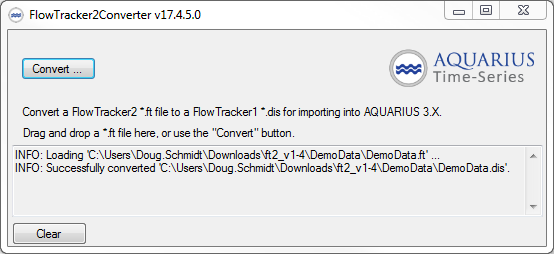
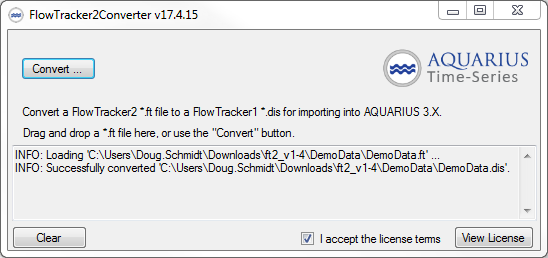
Issue-9 Updated the converter tool readme and screenshot to include license terms

diff --git a/src/FlowTracker2Converter/Readme.md b/src/FlowTracker2Converter/Readme.md
@@ -10,6 +10,7 @@ Simply drag and drop your files onto the GUI app, and your file will be converte
 
 ## Requirements
 
+- You will need to agree with the [license terms of this repository](./LICENSE.txt) and with the license terms for software components provided by [SonTek/YSI](../External/SonTek.StandaloneDataParser.License.md).
 - No installer needed. Just run the EXE from wherever.
 - The converter requires the .NET 4.7 runtime to be installed
     - .NET 4.7 is pre-installed on Windows 10 and Windows 2012 Server, and on most Windows 7 systems.

diff --git a/README.md b/README.md
@@ -2,7 +2,7 @@
 
 [![Build status](https://ci.appveyor.com/api/projects/status/vfsxbalu9pafgeab/branch/master?svg=true)](https://ci.appveyor.com/project/SystemsAdministrator/flowtracker2-field-data-plugin/branch/master)
 
-An AQTS field data plugin supporting FlowTracker2 measurement files.
+An AQTS field data plugin supporting FlowTracker2 measurement files, for AQTS 2017.4-or-newer systems.
 
 ## Want to install this plugin?
 
